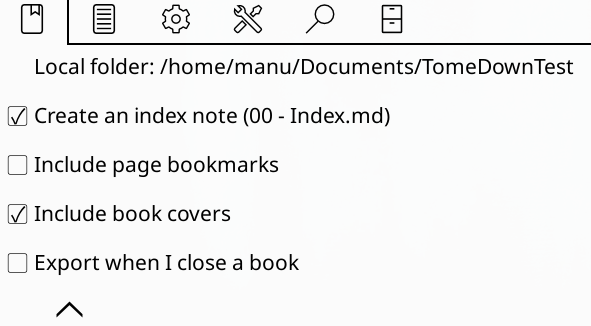
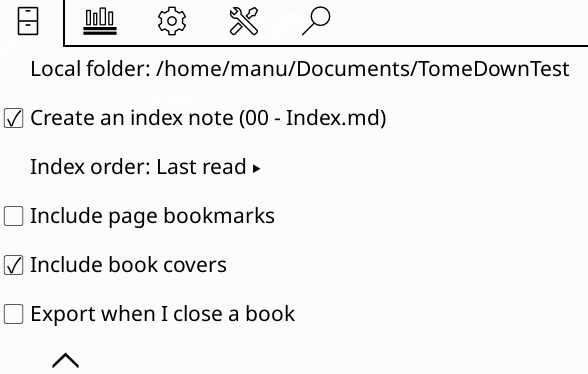
Refresh the menu screenshots

diff --git a/docs/keep-my-notes.md b/docs/keep-my-notes.md
@@ -58,6 +58,8 @@ export (right away when the book is exported on close). Clearing the field
 drops them. A tag made only of digits (`1500`) is ignored, because Obsidian
 does not accept it: use `1500s` or `anno-1500`.
 
+![The tags dialog, one book's tags in a comma separated field](../assets/menu/reader/add_tag_menu.png)
+
 With Keep my notes on, the file carries `tomedown_book_tags`, the receipt of
 the tags the menu owns. A tag you remove there leaves `tags` at the next
 export even while the rest of the file is merged; a tag you write by hand in

diff --git a/docs/settings.md b/docs/settings.md
@@ -32,6 +32,8 @@ next export rebuilds `00 - Index.md` alone even when every book is unchanged.
 With the index switched off the choice is remembered for the next time it is
 created.
 
+![The index order menu: Author, Title, Last read or Highlights](../assets/menu/settings/index_order_menu.png)
+
 Covers are always exported in full colour, whatever the device: the
 extraction forces colour rendering even on greyscale e-ink screens.
 
